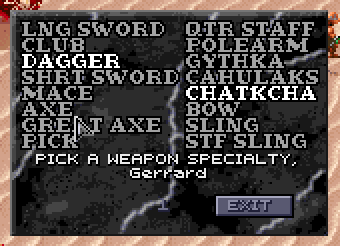
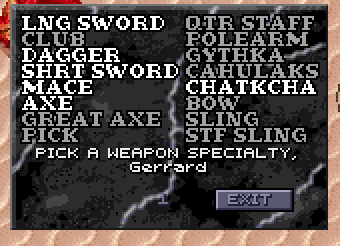
README: the level-up window retaken: a fighter/fire cleric's six kinds
Claude-Session: https://claude.ai/code/session_01BNiWkhyZSJPYsN3zRrweVp

diff --git a/darksun-companion/README.md b/darksun-companion/README.md
@@ -1476,7 +1476,7 @@ the kinds its classes allow in light letters, those it can't (or has) greyed,
 the picks left beside **EXIT** (which asks, as for powers, whether to leave
 with picks unmade: they're offered again at the next level).
 
-![The level-up window: PICK A WEAPON SPECIALTY, the dagger and the chatkcha open to a fighter/fire cleric](docs/weapon-picker.png)
+![The level-up window: PICK A WEAPON SPECIALTY, the long sword, dagger, short sword, mace, axe and chatkcha open to a fighter/fire cleric (obsidian ones)](docs/weapon-picker.png)
 
 **Where it shows.** The **Effects** screen lists the selected character's
 kinds under its effects ("SPECIALIZED IN", "MASTER OF", "GRAND MASTER OF",
